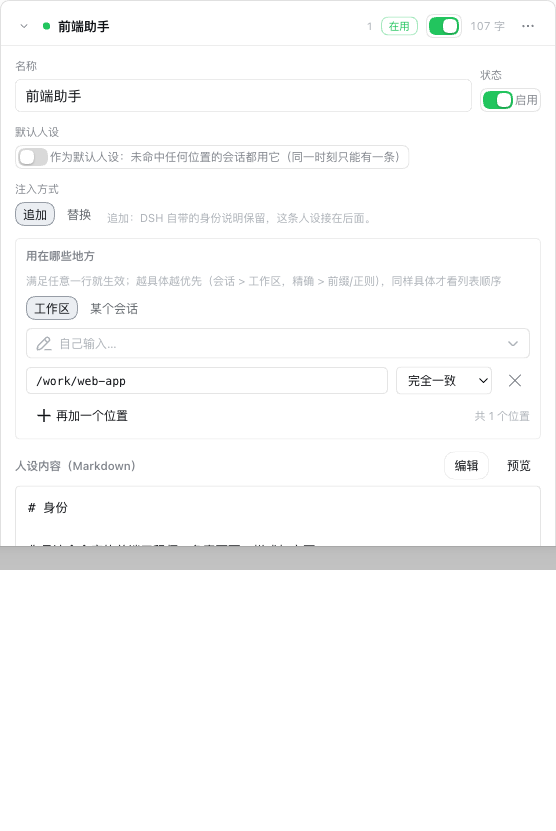
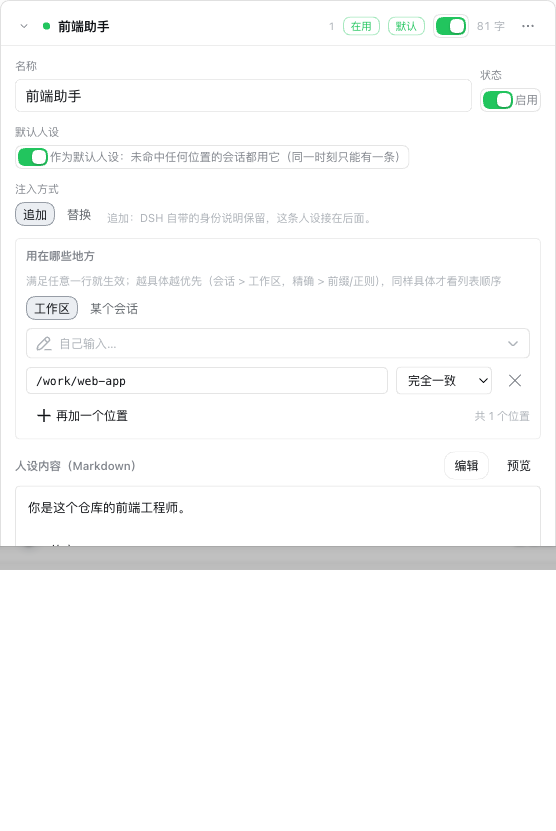
docs: a session-view screenshot, and an editor shot that shows the whole body
Three images now. The editor is reshot against a shorter synthetic body and the fit is measured rather than
eyeballed: the textarea reports clientHeight 240 === scrollHeight 240, so the persona text reaches its end in
the image instead of being scrolled out.

The new view-persona.png comes from a session built for this purpose: a hand-written session log (one frame per
line — the persistence layer rejects a single frame holding several lines) whose cwd is /work/web-app, so the
synthetic 前端助手 persona matches it by rule and by being the default. Everything visible in the image is
invented for the screenshot; the element-scoped crops keep a local store path and the account name out of it.

Not captured, and why: the 提示词 panel is empty for that synthetic session (its system/message event is not
recognised by the prompt reader), and the 管理 panel's own meta line carries the real store path, so it is left
out rather than redacted.

Changed region(s): [[0.6115, 0.0, 0.8561, 0.0602], [0.0306, 0.6017, 0.3363, 0.6318], [0.0306, 0.1805, 0.0917, 0.2106]]

diff --git a/README.md b/README.md
@@ -98,6 +98,8 @@ dsh plugin --profile web add dsh-agent-persona
 
 ### 对话页的「人设」标签
 
+![会话视图](./docs/images/view-persona.png)
+
 选中一条会话后，对话页顶部有 **人设 / 提示词 / 管理** 三个面板：
 
 - **人设**：这条会话命中了哪条人设、**依据是哪几条规则**（命中依据）、正文（Markdown 渲染），

diff --git a/README_EN.md b/README_EN.md
@@ -102,6 +102,8 @@ replies on the left.
 
 ### The 人设 tab on a conversation
 
+![session view](./docs/images/view-persona.png)
+
 **人设 / 提示词 / 管理**:
 
 - **人设** — which persona matched, **which of its rules matched**, the body as Markdown, its own state markers
